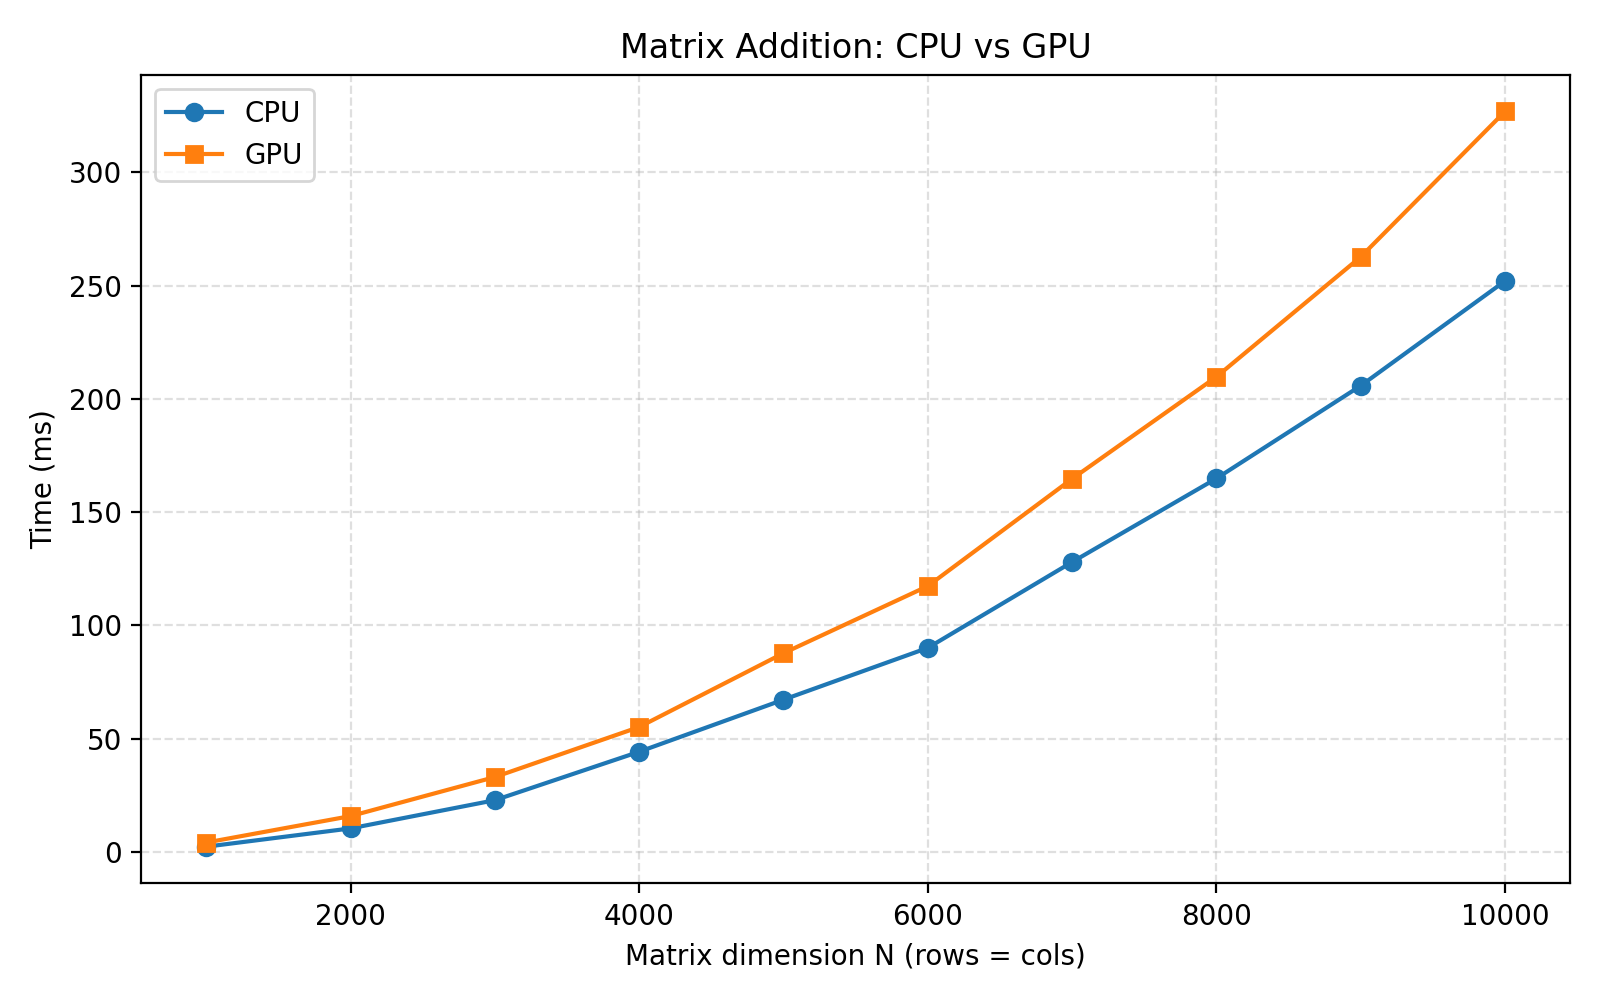
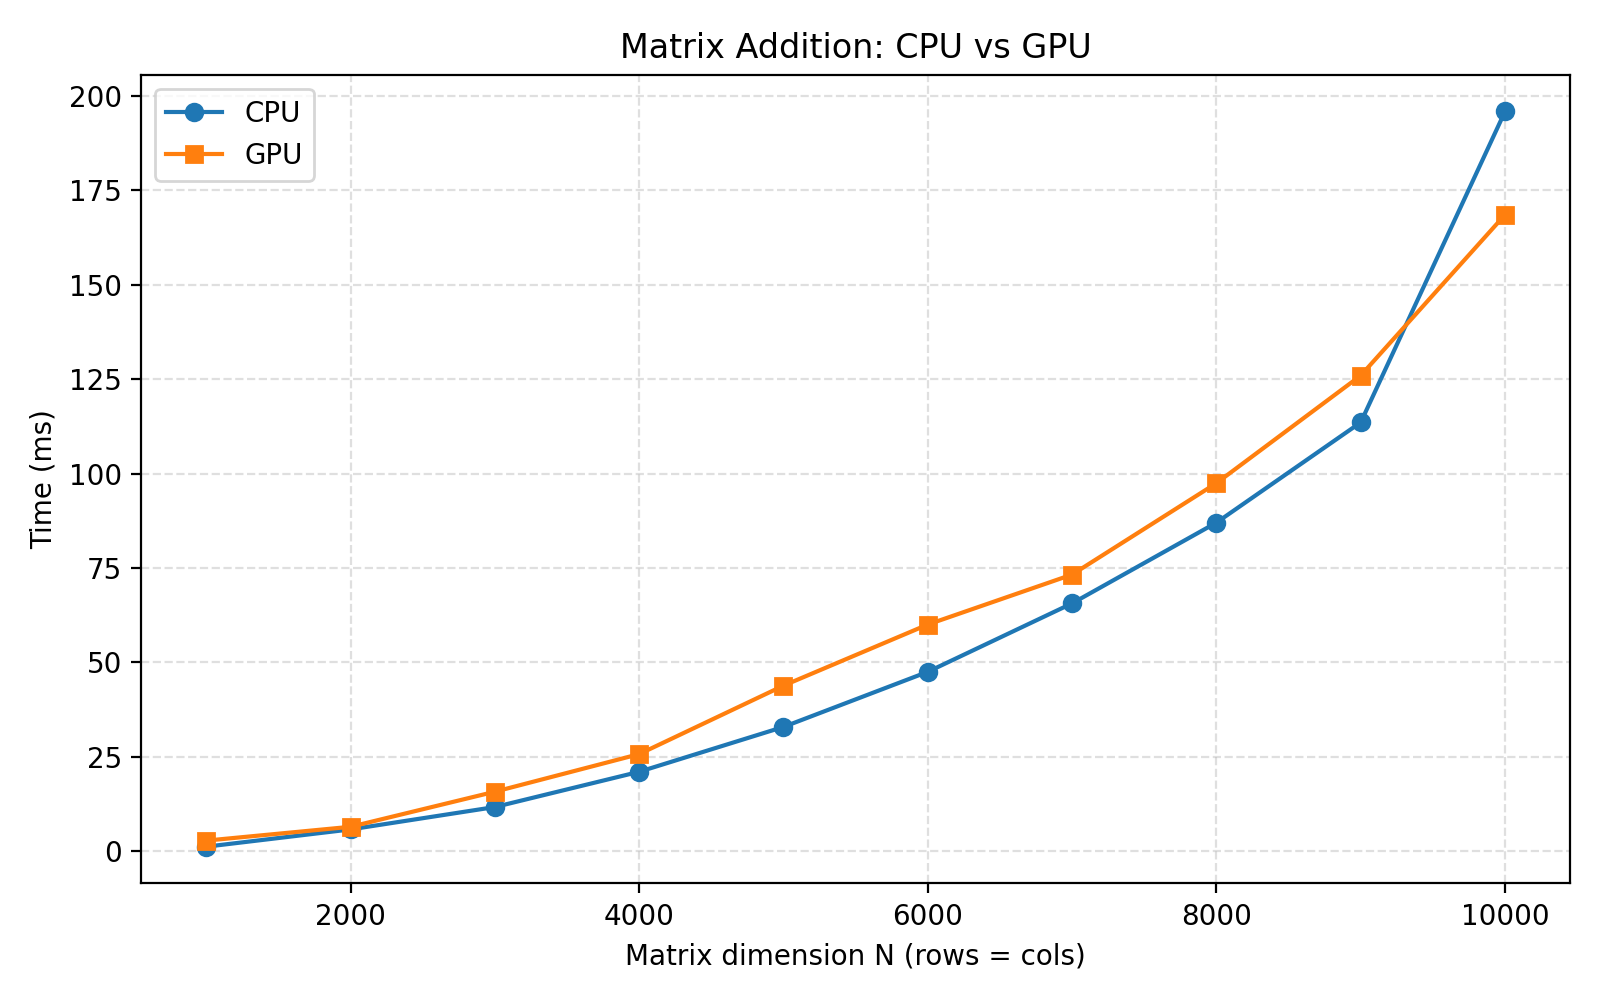
Task 4 Improvment : GPU faster at big input

diff --git a/assignment01/task04/src/main.cpp b/assignment01/task04/src/main.cpp
@@ -17,18 +17,32 @@ int main() {
         }
         std::fprintf(csv, "file,rows,cols,cpu_ms,gpu_ms\n");
 
+        // Precompute filenames and maximum matrix size so we can preallocate GPU buffers
+        std::vector<std::string> filenames;
+        filenames.reserve(10);
+        size_t max_elems = 0;
+        for (int i = 0; i < 10; ++i) {
+            std::string filename = "data/input_size_" + std::to_string(i) + ".txt";
+            filenames.push_back(filename);
+            int n_mats = 0, rows = 0, cols = 0;
+            get_dims(filename, n_mats, rows, cols);
+            size_t elems = (size_t)rows * cols;
+            if (elems > max_elems) max_elems = elems;
+        }
+
+        init_gpu(max_elems);
+
         // Warmup GPU
+        std::printf("Warming up device...\n");
         {
-            std::printf("Warming up device...\n");
             flat_mat w1, w2, wr;
             w1.rows = w2.rows = 16; w1.cols = w2.cols = 16;
-            w1.data.assign(256, 1); w2.data.assign(256, 1);
+            w1.data.assign(256, 1.0f); w2.data.assign(256, 1.0f);
             add_mat_gpu_compute_flat(w1, w2, wr);
         }
 
         // 2 matrices, varying size
-        for (int i = 0; i < 10; ++i) {
-            std::string filename = "data/input_size_" + std::to_string(i) + ".txt";
+        for (const auto &filename : filenames) {
             int n_mats = 0, rows = 0, cols = 0;
             get_dims(filename, n_mats, rows, cols);
 
@@ -41,6 +55,8 @@ int main() {
             double gpu_ms = time_function([&] { add_mat_gpu_compute_flat(mats[0], mats[1], result); });
             std::fprintf(csv, "%s,%d,%d,%.6f,%.6f\n", filename.c_str(), rows, cols, cpu_ms, gpu_ms);
         }
+
+        free_gpu();
 
         std::fclose(csv);
         std::printf("Done. Results in data/results.csv\n");

diff --git a/assignment01/task04/src/mat_ops.cpp b/assignment01/task04/src/mat_ops.cpp
@@ -3,7 +3,7 @@
 
 // Flat versions - no 2D overhead
 void add_mat_compute_flat(const flat_mat& m1, const flat_mat& m2, flat_mat& result) {
-    size_t total = m1.rows * m1.cols;
+    size_t total = (size_t)m1.rows * m1.cols;
     result.rows = m1.rows;
     result.cols = m1.cols;
     result.data.resize(total);
@@ -13,10 +13,10 @@ void add_mat_compute_flat(const flat_mat& m1, const flat_mat& m2, flat_mat& resu
 }
 
 void add_nmat_compute_flat(const std::vector<flat_mat>& mats, flat_mat& result) {
-    size_t total = mats[0].rows * mats[0].cols;
+    size_t total = (size_t)mats[0].rows * mats[0].cols;
     result.rows = mats[0].rows;
     result.cols = mats[0].cols;
-    result.data.assign(total, 0.0);
+    result.data.assign(total, 0.0f);
     for (size_t k = 0; k < mats.size(); k++) {
         for (size_t i = 0; i < total; i++) {
             result.data[i] += mats[k].data[i];

diff --git a/assignment01/task04/src/mat_io.cpp b/assignment01/task04/src/mat_io.cpp
@@ -81,7 +81,7 @@ std::vector<flat_mat> readMatFlat(const std::string& in) {
         result[k].cols = cols;
         result[k].data.resize(total);
         for (int i = 0; i < total; i++) {
-            if (fscanf_s(f, "%lf", &result[k].data[i]) != 1) {
+            if (fscanf_s(f, "%f", &result[k].data[i]) != 1) {
                 fclose(f);
                 throw std::runtime_error("Invalid matrix data");
             }

diff --git a/assignment01/task04/include/mat_io.h b/assignment01/task04/include/mat_io.h
@@ -7,7 +7,7 @@ using mat = std::vector<std::vector<int>>;
 
 // Flat matrix storage (1D, no nested vectors)
 struct flat_mat {
-    std::vector<double> data;
+    std::vector<float> data;
     int rows;
     int cols;
 };
